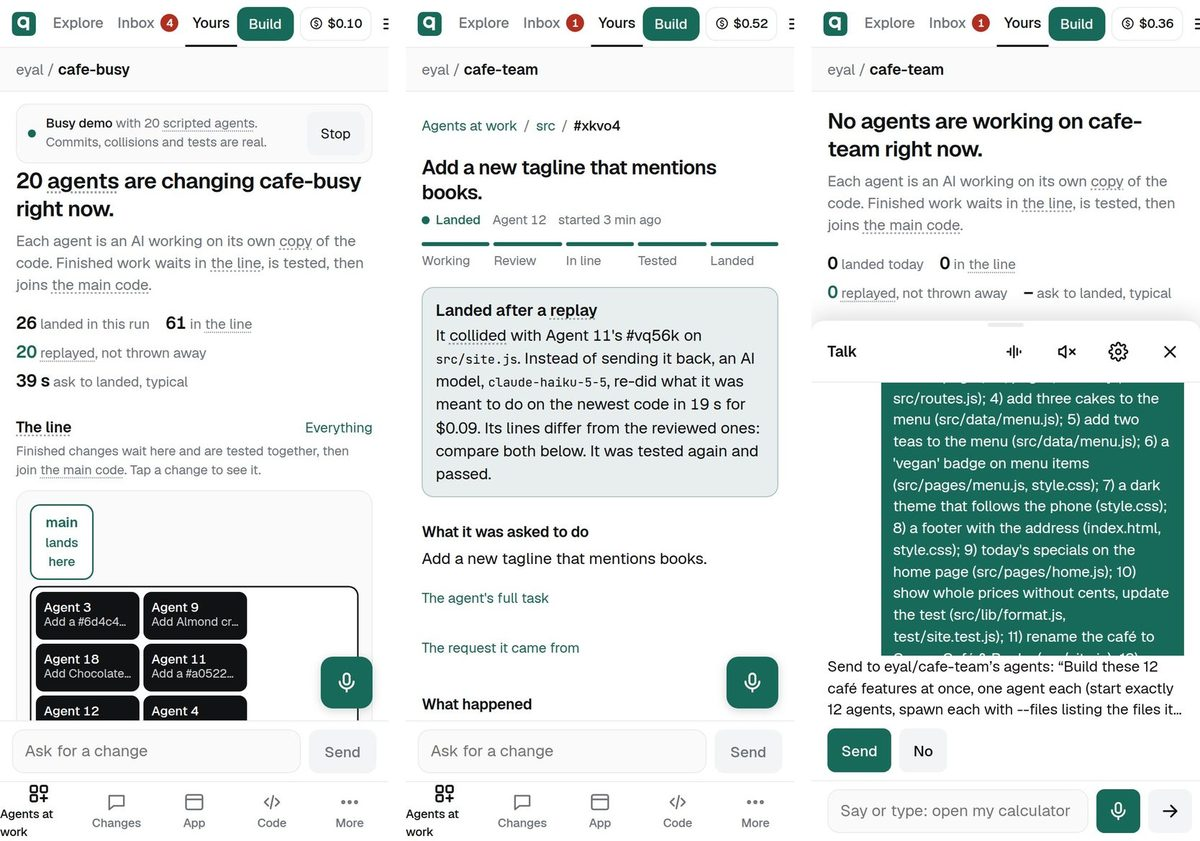
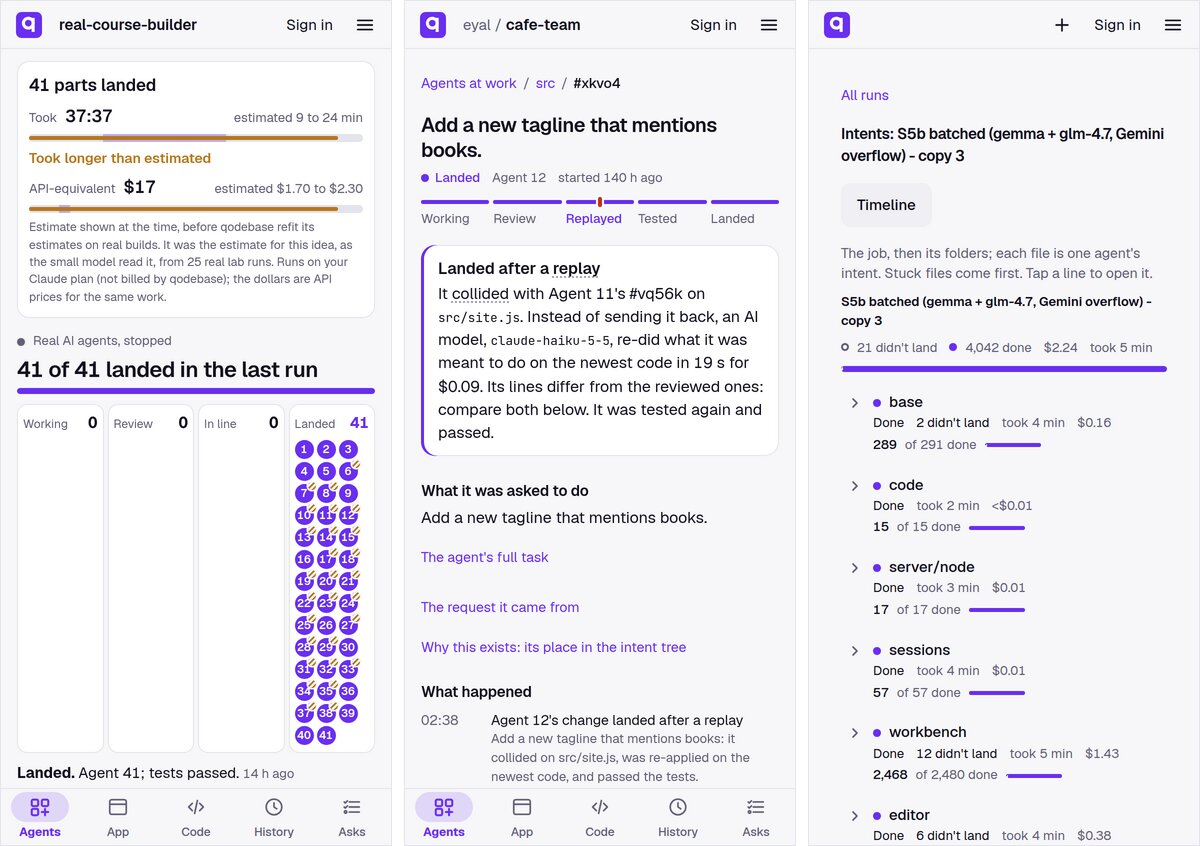
README phone strip re-shot in today's violet UI, signed out: real-course-builder, the xkvo4 record, a fleet run's Intents

Changed region(s): [[0.0, 0.0, 1.0, 1.0], [0.0, 0.0, 0.3083, 0.4637], [0.3392, 0.7111, 0.5858, 0.7729]]

diff --git a/README.md b/README.md
@@ -15,7 +15,7 @@
 
 **Watch it work, no sign-in:** open **[qodebase.app/p/eyal/corner-cafe](https://qodebase.app/p/eyal/corner-cafe)** and tap **Watch a run**. Six scripted agents (no AI) change a small café website at once for about a minute: real commits on their own forks, real collisions, real tests, through the real merge queue. It is staged: reviews are approved automatically and the tasks are ordered so the story happens. The run with real AI agents is below.
 
-<img src="docs/img/readme-phones.jpg" width="720" alt="On the phone: 20 agents changing one project and the line of changes being tested; a change record where an AI re-did a collided change on the newest code in 19 seconds; Talk confirming one request for twelve features before it goes to the agents">
+<img src="docs/img/readme-phones.jpg" width="720" alt="On the phone: a 40-agent build with 41 of 41 changes landed; a change record where an AI re-did a collided change on the newest code in 19 seconds; the Intents view of a 4,063-file fleet run, folder by folder">
 
 ## With real AI agents
 
